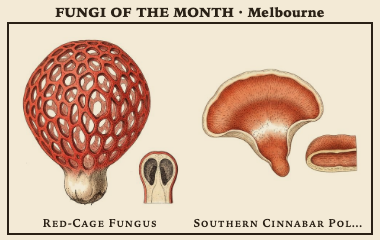
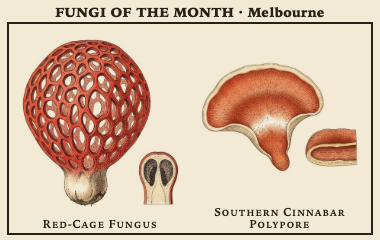
fix: ink drawings shed a grey ground kept from the photo; names wrap to two lines on small cells

diff --git a/client.css b/client.css
@@ -262,7 +262,7 @@
 .size-sm .fp-frame { padding: 1.4cqmin 2cqmin 1cqmin; }
 .size-sm .fp-grid { padding: 0.4cqmin 0 0; gap: 1cqmin 3cqmin; }
 .size-sm .fp-num { display: none; }
-.size-sm .fp-name { font-size: clamp(11px, 3.4cqmin, 16px); white-space: nowrap; text-overflow: ellipsis; display: block; }
+.size-sm .fp-name { font-size: clamp(11px, 3.4cqmin, 16px); line-height: 1.1; }
 .size-sm .fp-title { font-size: clamp(13px, 5.4cqmin, 22px); }
 
 .size-lg .fp-foot { white-space: normal; display: -webkit-box; -webkit-box-orient: vertical; -webkit-line-clamp: 2; }

diff --git a/server.py b/server.py
@@ -468,13 +468,39 @@ def photo_uri(url: str, data_dir: Path, px: int, levels: str) -> str:
 
 WHITE_FROM = 228  # a channel value this high is taken as the paper
 TRIM_PAD = 0.03  # of the longer side, kept round the subject
+# An ink drawing has no colour of its own, so any light, unsaturated wash that
+# touches the edge of the sheet is a ground the model kept from the photo, not
+# the drawing: it is taken as paper down to this grey.
+INK_GROUND_FROM = 150
+INK_GROUND_SAT = 40
+LOOSE_STYLES = ("ink",)
 
 
-def trim_painting(raw: bytes) -> bytes:
+def _ground_from_edges(im: Any, lum_from: int, sat_max: int) -> Any:
+    """A mask (255 where paper) of the light, unsaturated pixels joined to
+    the edge of the sheet, found by flooding in from a border."""
+    from PIL import Image, ImageChops, ImageDraw
+
+    r, g, b = im.split()
+    lo = ImageChops.lighter(ImageChops.lighter(r, g), b)
+    hi = ImageChops.darker(ImageChops.darker(r, g), b)
+    sat = ImageChops.subtract(lo, hi)
+    light = im.convert("L").point(lambda v: 255 if v >= lum_from else 0)
+    grey = sat.point(lambda v: 255 if v <= sat_max else 0)
+    cand = ImageChops.multiply(light, grey)
+    framed = Image.new("L", (im.width + 2, im.height + 2), 255)
+    framed.paste(cand, (1, 1))
+    ImageDraw.floodfill(framed, (0, 0), 128, thresh=0)
+    filled = framed.crop((1, 1, im.width + 1, im.height + 1))
+    return filled.point(lambda v: 255 if v == 128 else 0)
+
+
+def trim_painting(raw: bytes, loose: bool = False) -> bytes:
     """A painting cropped to its subject with its ground made pure white, so
     on the plate it multiplies into the paper without a visible rectangle and
-    the fungus takes the room its slot allows. A PNG; empty when it cannot be
-    done."""
+    the fungus takes the room its slot allows. ``loose`` (ink drawings) also
+    takes a light grey wash joined to the sheet's edge as paper. A PNG; empty
+    when it cannot be done."""
     try:
         from PIL import Image, ImageChops, ImageOps
     except ImportError:
@@ -491,6 +517,10 @@ def trim_painting(raw: bytes) -> bytes:
     paper = ImageChops.multiply(
         ImageChops.multiply(r.point(white), g.point(white)), b.point(white)
     )
+    if loose:
+        paper = ImageChops.lighter(
+            paper, _ground_from_edges(im, INK_GROUND_FROM, INK_GROUND_SAT)
+        )
     box = ImageChops.invert(paper).getbbox()
     if not box:
         return b""
@@ -520,7 +550,8 @@ def trimmed_variant(art: Any, key: str) -> str:
     if none.exists():
         return ""
     got = art.picture(key)
-    data = trim_painting(got[0]) if got else b""
+    style = str(got[1].get("style") or "") if got else ""
+    data = trim_painting(got[0], loose=style in LOOSE_STYLES) if got else b""
     with contextlib.suppress(OSError):
         if data:
             done.write_bytes(data)

diff --git a/tests/test_smoke.py b/tests/test_smoke.py
@@ -249,6 +249,40 @@ def test_painting_keys_and_prompt():
     assert chr(0x2014) not in p
 
 
+def _smudged(ink: bool) -> bytes:
+    """A white sheet with a dark line in the middle and a soft grey wash in
+    the bottom left corner, joined to the edge, as a kept ground looks."""
+    im = Image.new("RGB", (300, 400), (255, 255, 255))
+    d = ImageDraw.Draw(im)
+    for i in range(0, 120, 2):
+        v = 160 + i // 2
+        d.rectangle((0, 280 + i, 120 - i, 400), fill=(v, v, v))
+    d.rectangle((140, 150, 200, 250), fill=(20, 20, 20) if ink else (200, 40, 30))
+    d.rectangle(
+        (150, 160, 190, 240), fill=(200, 200, 200)
+    )  # a light tone enclosed by the line
+    buf = io.BytesIO()
+    im.save(buf, "PNG")
+    return buf.getvalue()
+
+
+def test_trim_whitens_the_ground_and_crops_to_the_subject():
+    out = Image.open(io.BytesIO(server.trim_painting(_smudged(False))))
+    assert out.width < 300 and out.height < 400
+    # a strict trim keeps the grey wash (it may be a pale colour) and so the crop reaches it
+    assert out.getpixel((2, out.height - 2)) != (255, 255, 255)
+    out = Image.open(io.BytesIO(server.trim_painting(_smudged(True), loose=True)))
+    # the loose trim takes the wash as paper: the crop holds the line and its tone only
+    assert out.width < 100 and out.height < 140
+    assert out.getpixel((0, out.height - 1)) == (255, 255, 255)
+    assert (20, 20, 20) in [
+        out.getpixel((x, out.height // 2)) for x in range(out.width)
+    ]
+    assert (200, 200, 200) in [
+        out.getpixel((x, out.height // 2 - 10)) for x in range(out.width)
+    ]
+
+
 # ----- fetch ----------------------------------------------------------
 
 

diff --git a/README.md b/README.md
@@ -65,7 +65,8 @@ gouache field guide. The prompt asks for the whole fruiting body in the form
 the photo shows (cap and stem, bracket, cup, coral, puffball or crust),
 standing on nothing, with a small cross-section of the same fungus beside it,
 on plain white paper and nothing else. Each painting is trimmed to its subject
-and laid on the paper, and credited "AI painting (Nano Banana on fal.ai) from
+and laid on the paper (an ink drawing also sheds any light grey wash the
+model kept from the photograph), and credited "AI painting (Nano Banana on fal.ai) from
 a photo by <user> (<licence>)".
 
 Paintings go through Tesserae's own picture store (`app.artwork`, Tesserae
@@ -102,7 +103,7 @@ one or two and the title only. Type and rules scale with the cell.
 
 ![A small card](screenshots/extra-6.png)
 
-*A 380x240 card: two species and the title.*
+*A 380x240 card: two species and the title; a long name wraps to a second line.*
 
 ## Panels
 
